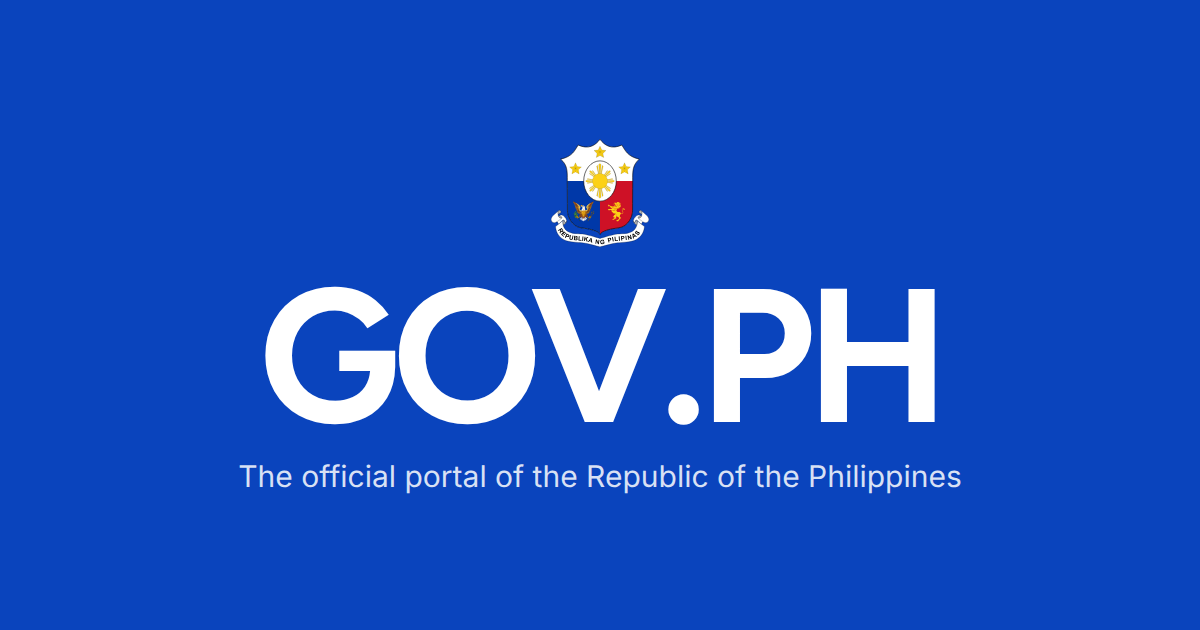
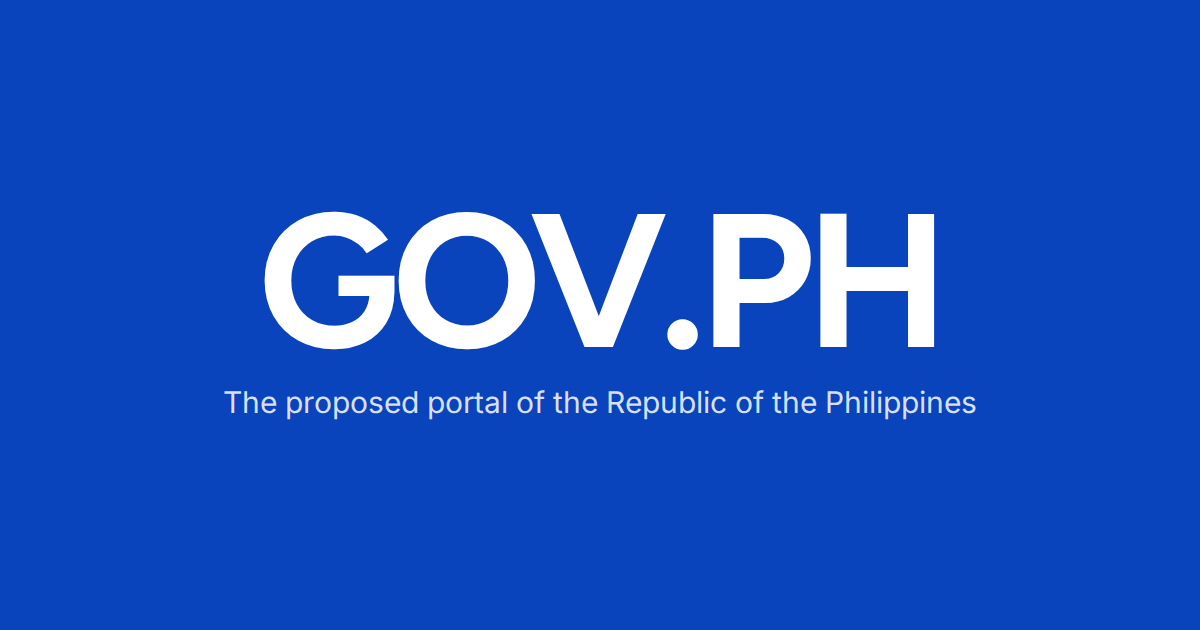
feat(brand): redraw the og:image as the proposed portal, without the seal
Same card as before (GOV.PH in Figtree Bold over the sentence-case Inter
tagline, centred on navy #0a44bd, 1200x630), now reading "The proposed
portal of the Republic of the Philippines" and without the coat of arms,
to match the header. The og:image:alt text in index.html follows.

Changed region(s): [[0.185, 0.2111, 0.8325, 0.6937], [0.185, 0.7238, 0.8017, 0.7841]]

diff --git a/index.html b/index.html
@@ -52,7 +52,7 @@
     <meta property="og:image:height" content="630" />
     <meta
       property="og:image:alt"
-      content="The Philippine coat of arms above the GOV.PH wordmark and the line: The official portal of the Republic of the Philippines"
+      content="The GOV.PH wordmark above the line: The proposed portal of the Republic of the Philippines"
     />
     <meta name="twitter:card" content="summary_large_image" data-rh="true" />
   </head>
